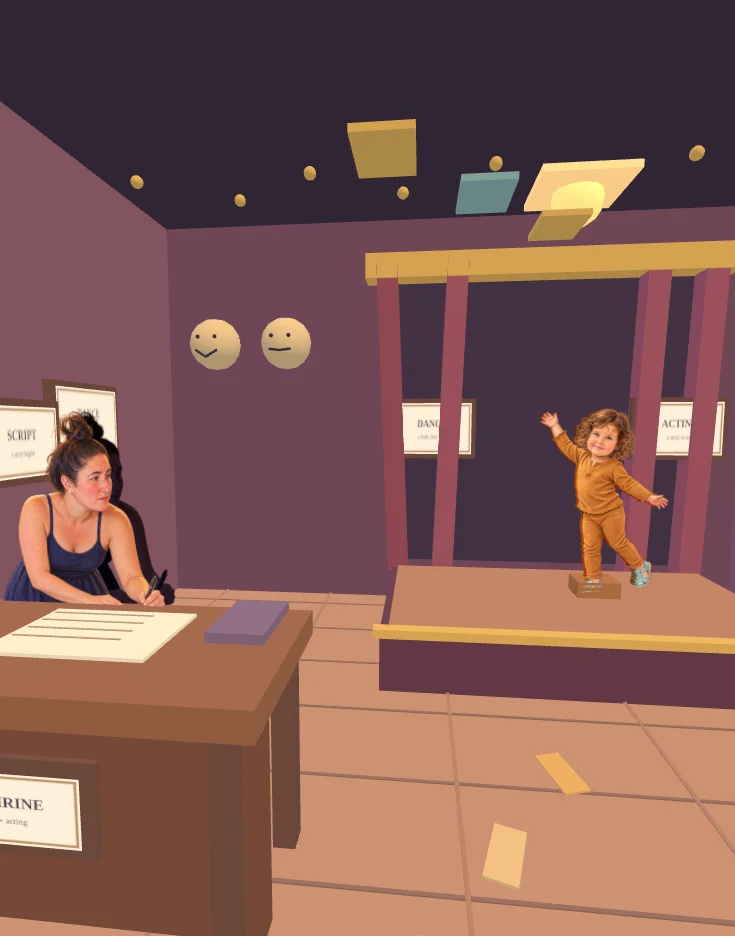
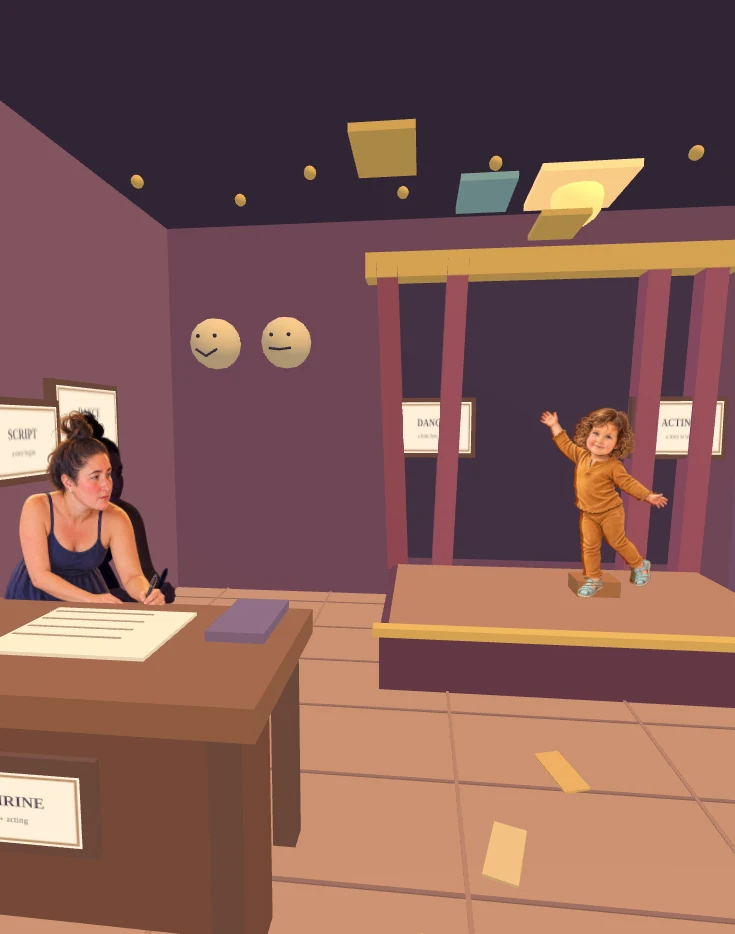
Open up gallery hallway with warm architectural details

diff --git a/src/assets/explore.css b/src/assets/explore.css
@@ -36,7 +36,7 @@ a { color: inherit; }
   height: 100dvh;
   min-height: 420px;
   overflow: hidden;
-  background: radial-gradient(circle at 50% 45%, #284357, #0a1522 75%);
+  background: radial-gradient(circle at 50% 45%, #ddc8bd, #a9939b 80%);
 }
 
 .scene, .scene canvas { width: 100%; height: 100%; }
@@ -46,7 +46,7 @@ a { color: inherit; }
   position: absolute;
   inset: 0;
   pointer-events: none;
-  background: radial-gradient(ellipse, transparent 38%, rgb(4 10 19 / 41%) 100%);
+  background: radial-gradient(ellipse, transparent 48%, rgb(64 46 56 / 19%) 100%);
 }
 .portal-glow {
   position: absolute;
@@ -54,7 +54,7 @@ a { color: inherit; }
   inset: -20%;
   pointer-events: none;
   opacity: 0;
-  background: radial-gradient(circle, rgb(239 244 255 / 93%) 0%, rgb(154 199 230 / 64%) 22%, transparent 70%);
+  background: radial-gradient(circle, rgb(255 247 223 / 91%) 0%, rgb(240 204 173 / 58%) 22%, transparent 70%);
   transition: opacity .38s ease;
 }
 .portal-glow.active { opacity: 1; }
@@ -70,7 +70,7 @@ a { color: inherit; }
   justify-content: space-between;
   gap: 1rem;
   padding: max(1rem, env(safe-area-inset-top)) max(1.15rem, env(safe-area-inset-right)) 1rem max(1.15rem, env(safe-area-inset-left));
-  background: linear-gradient(rgb(4 10 19 / 70%), transparent);
+  background: linear-gradient(rgb(53 43 51 / 42%), transparent);
 }
 .site-link {
   font-family: Ojuju, Archivo, sans-serif;

diff --git a/README.md b/README.md
@@ -13,7 +13,7 @@ The portfolio data is in `src/_data/site.json`; shared templates and styles are 
 
 ## The gallery
 
-The gallery uses Three.js in the browser and a bundled static script. It needs no service beyond the existing GitHub Pages deployment. On a phone, use the left-thumb movement pad and hold a drag on the right side to keep looking around; release to stop. On a desktop, use W A S D or arrow keys and drag to look. Walk through frame 01 to enter, then walk back through its gold-edged doorway to return. The old achievement pages are independent of these frames.
+The gallery uses Three.js in the browser and a bundled static script. It needs no service beyond the existing GitHub Pages deployment. The hallway is 5.8 meters wide and 4.8 meters high, with painted plaster, woodwork, warm lamps, a runner, and solid watercolor placeholders. On a phone, use the left-thumb movement pad and hold a drag on the right side to keep looking around; release to stop. On a desktop, use W A S D or arrow keys and drag to look. Walk through frame 01 to enter, then walk back through its gold-edged doorway to return. The old achievement pages are independent of these frames.
 
 Frame IDs, labels, positions, and room details live in `src/_data/gallery.json`. One scene unit is one meter. Room 01's source is `scripts/room01_author.mjs`, with painted likeness assets in `room_assets/01/`. Run `node scripts/build_room_01.mjs` to export its GLB and portrait preview from the same scene and camera. These paintings are derived artwork; the original reference photos and their EXIF metadata are not in the repository or published site. To make another frame enterable, place its preview and glTF `.glb` scene under `src/assets/explore/roomXX/`, then set both `previewImage` and `modelUrl` in that frame's room record. `dimensionsM` defines walkable bounds; `colliders` are solid rectangles; `entryPose` sets the camera after crossing; `previewCamera` sets the near-frame live peek. Only the nearest room is loaded, and its assets are released after leaving. Keep each future room near or below 8 MB downloaded and watch the GitHub Pages 1 GB published-site limit.
 
